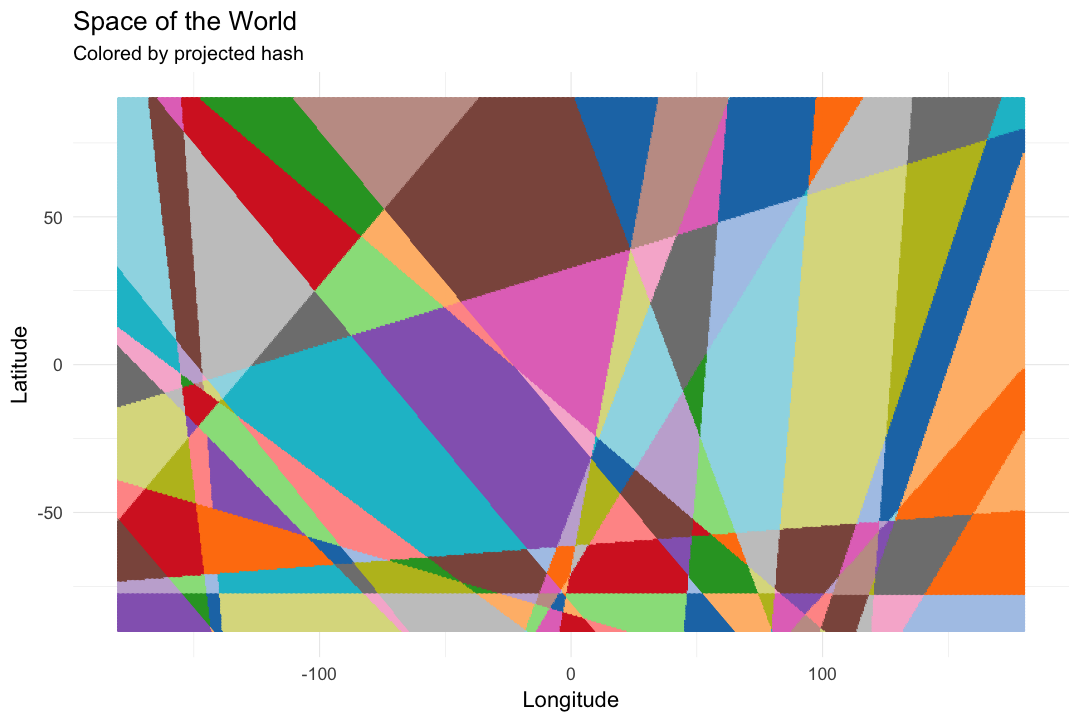
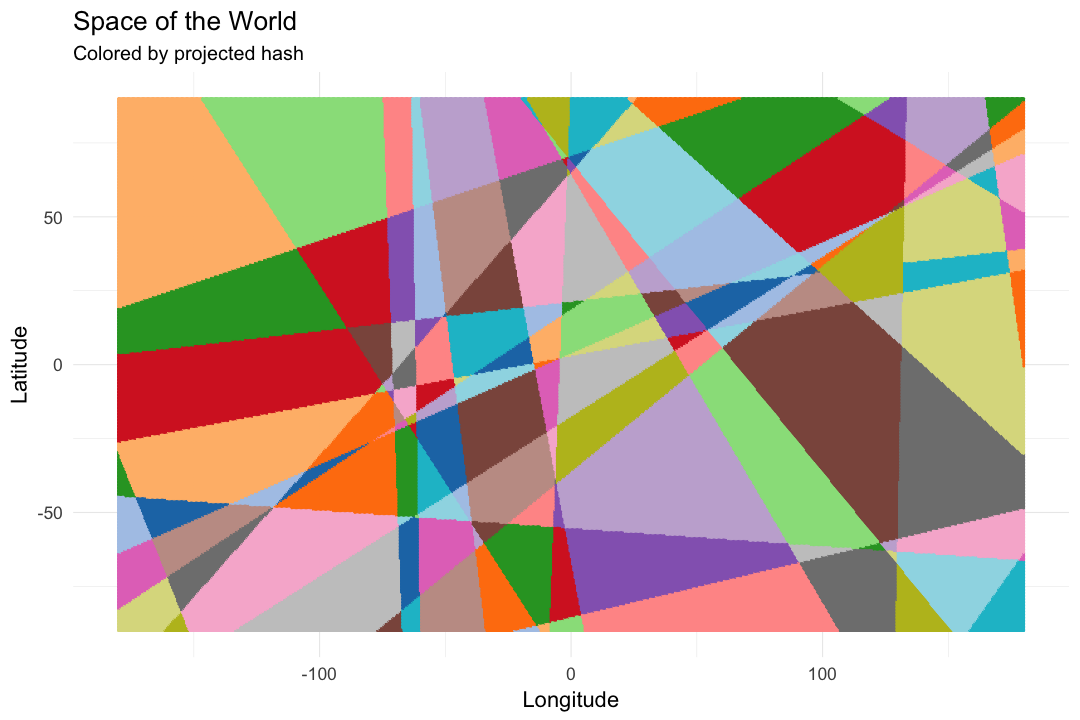
More more random projection.

diff --git a/source/_posts/2017-12-08-fun-with-random-numbers-more-random-projection.md b/source/_posts/2017-12-08-fun-with-random-numbers-more-random-projection.md
@@ -7,7 +7,7 @@ comments: true
 
 
 
-Last time, we learned about a method of dimensionality reduction called random projection. We showed that using random projection, the number of dimensions required to preserve the distance between the points in a set is dependent only upon the number of *points* in the set and the maximum acceptable distortion set by the user. Surprisingly it does *not* depend on the original number of dimensions. The proof that random projections work is hard to understand, but the method is very simple to implement in just a few steps. To reduce the dimensionality of a set of m points in an N dimensional space:
+[Last time](http://jasonpunyon.com/blog/2017/12/02/fun-with-random-numbers-random-projection/) we learned about a method of dimensionality reduction called random projection. We showed that using random projection, the number of dimensions required to preserve the distance between the points in a set is dependent only upon the number of *points* in the set and the maximum acceptable distortion set by the user. Surprisingly it does *not* depend on the original number of dimensions. The proof that random projections work is hard to understand, but the method is very simple to implement in just a few steps. To reduce the dimensionality of a set of m points in an N dimensional space:
 
 1. Get your data into a m &times; N matrix **D**
 1. Choose your maximum allowable percent distortion &epsilon;
@@ -68,13 +68,13 @@ projected[1,]
 
 
 {% highlight text %}
-##  [1]  10.69272814   5.85547523  -2.69259970  11.69982579  -8.09947221
-##  [6]   9.73387187  -6.21878316   8.23639838  -0.04556335  -8.63407293
-## [11]   5.86008396  14.05194007   3.21997116  11.88770012  -3.49988214
-## [16]  -8.06132757 -15.38181868  10.03085341  -3.45489811   8.37602080
-## [21]   1.60290140   4.04197519   1.06388562   9.57580297   1.93319542
-## [26]   3.26073281  -1.43515837  -4.95111631  -1.47457978  -2.04400312
-## [31]  -0.62328955   3.22069399
+##  [1]  -8.5298772   5.2487328   6.4803452   0.7202221  -4.5681409
+##  [6]  -3.5437398  -1.1376153   2.1322984 -13.9543986   9.5068033
+## [11]  11.9501116   4.1434071  -6.2996788  -2.8503986   3.0405665
+## [16]  -6.8101166   2.4264599  -0.4621604 -13.5103668  -7.4556873
+## [21]  11.0385507   3.5353682  -3.1107269   0.5312211   6.7301643
+## [26]   5.3124139   2.1059562   1.6779630   2.7099141  13.2124557
+## [31]   3.0985446  -2.9377113
 {% endhighlight %}
 
 OK, so each row in the projected matrix has 32 numbers. The next step in the process is to turn each row of 32 numbers into 32 bits using their signs. Positive numbers will map to 1s and negative numbers will map to 0s.
@@ -88,7 +88,7 @@ projected_bits[1,] ##And now we have 1s and 0s
 
 
 {% highlight text %}
-##  [1] 1 1 0 1 0 1 0 1 0 0 1 1 1 1 0 0 0 1 0 1 1 1 1 1 1 1 0 0 0 0 0 1
+##  [1] 0 1 1 1 0 0 0 1 0 1 1 1 0 0 1 0 1 0 0 0 1 1 0 1 1 1 1 1 1 1 1 0
 {% endhighlight %}
 
 Our projected data is now a collection of 32-bit strings, which I'm going to call hashes. Let's visualize the data by coloring the points on the original map by their projected hashes.
